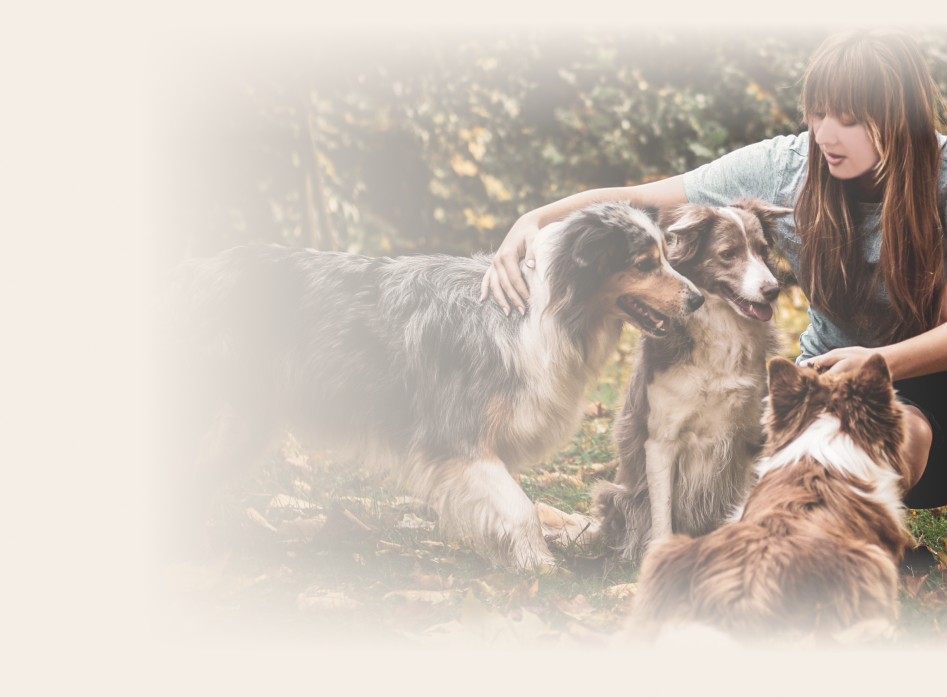
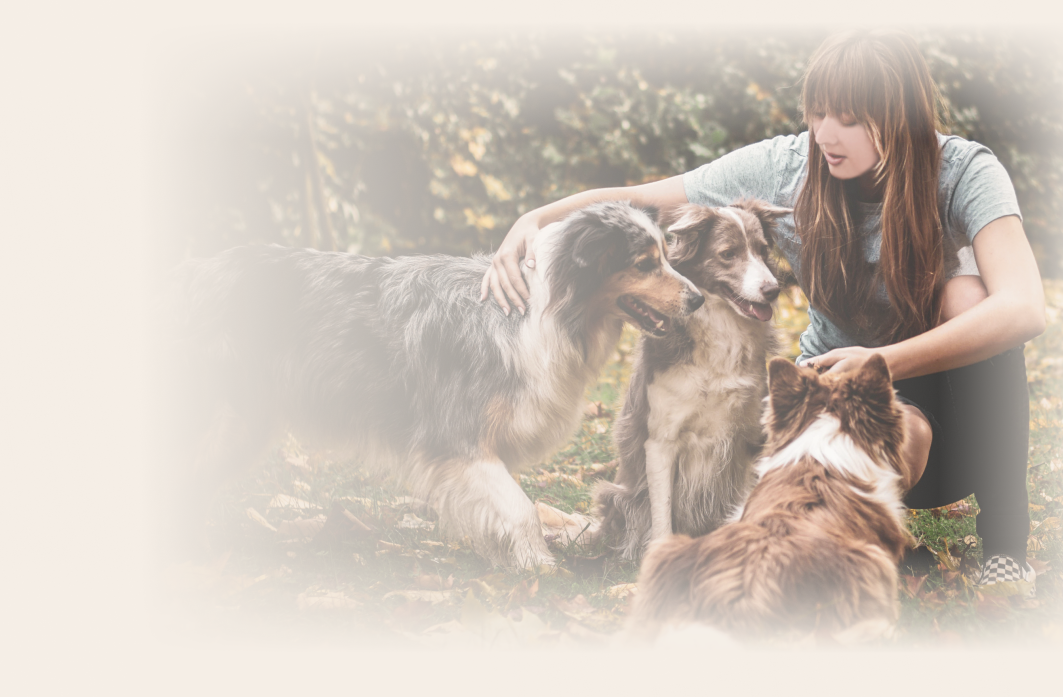
Сделал правки по первому блоку на главной.

diff --git a/themes/zoomir/resources/sass/components/header.scss b/themes/zoomir/resources/sass/components/header.scss
@@ -21,29 +21,42 @@
 
     &__menu {
 
-        flex-grow: 1;
         display: flex;
-        justify-content: space-between;
-        margin: 0 90px;
+        justify-content: flex-start;
+        margin: 0 auto;
 
         &-item {
 
-            margin-right: 20px;
+            margin-right: 50px;
             color: #363636;
             text-decoration: none;
             padding-bottom: 8px;
+            position: relative;
 
             &:last-child {
 
                 margin-right: 0;
             }
 
-            &:hover {
+            &::before {
 
+                content: '';
+                position: absolute;
+                width: 88px;
+                height: 12px;
+                bottom: -2px;
+                left: 50%;
+                margin-left: -44px;
                 background-image: url('../resources/imgs/header-menu-line.svg');
                 background-repeat: no-repeat;
-                background-position: center bottom;
+                background-position: 0 0;
                 background-size: 100% auto;
+                display: none;
+            }
+
+            &:hover::before {
+
+                display: block;
             }
         }
     }
@@ -78,7 +91,10 @@
 
         &__menu {
 
-            margin: 0 40px;
+            &-item {
+
+                margin-right: 20px;
+            }
         }
     }
 }

diff --git a/themes/zoomir/resources/sass/components/main-block.scss b/themes/zoomir/resources/sass/components/main-block.scss
@@ -1,16 +1,15 @@
 .main-block {
 
     position: relative;
-    padding-top: 150px;
-    padding-bottom: 120px;
     padding-left: 20px;
     max-width: calc(50% + 600px);
+    height: 100vh;
     margin-left: auto;
     background-image: url('../resources/imgs/main-block-img.png');
     background-repeat: no-repeat;
-    background-position: right top;
-    background-size: auto 100%;
-    max-height: 427px;
+    background-position: right center;
+    display: flex;
+    align-items: center;
 
     &__title {
 
@@ -70,6 +69,7 @@
         padding-top: 120px;
         background-size: auto 640px;
         background-position: right bottom;
+        height: auto;
 
         &__title {
 

diff --git a/webpack.mix.js b/webpack.mix.js
@@ -18,7 +18,7 @@ mix.js('themes/zoomir/resources/js/app.js', 'themes/zoomir/js')
       processCssUrls: false,
    })
    .browserSync({
-      proxy: 'www.wp-zoomir.ru',
+      proxy: 'zoomir-wp.ru',
       files: [
          'themes/zoomir/css/{*,**/*}.css',
          'themes/zoomir/js/{*,**/*}.js',

diff --git a/themes/zoomir/resources/sass/components/btn.scss b/themes/zoomir/resources/sass/components/btn.scss
@@ -4,7 +4,7 @@
     border: 1px solid #363636;
     box-shadow: 0px 3px 20px rgba(48, 48, 48, 0.1);
     border-radius: 50px;
-    padding: 20px 40px;
+    padding: 40px 44px;
     background-color: transparent;
     cursor: pointer;
     color: #363636;

diff --git a/themes/zoomir/resources/sass/app.scss b/themes/zoomir/resources/sass/app.scss
@@ -50,6 +50,12 @@ html.mobile-menu_open, body.mobile-menu_open {
     text-transform: uppercase;
 }
 
+.page-wrapper {
+
+    max-width: 1640px;
+    margin: 0 auto;
+}
+
 @media screen and (max-width:780px) {
 
     .page-title {

diff --git a/themes/zoomir/resources/sass/components/akcii.scss b/themes/zoomir/resources/sass/components/akcii.scss
@@ -1,7 +1,6 @@
 .akcii {
 
     margin-left: auto;
-    margin-top: 100px;
 
     &__title {
 

diff --git a/themes/zoomir/header.php b/themes/zoomir/header.php
@@ -8,47 +8,48 @@
         <?php wp_head(); ?>
     </head>
     <body>
-        <header class="header">
-            <div class="header__logo">
-                <a href="/"><img src="<?php echo get_template_directory_uri(); ?>/resources/imgs/header-logo.png"></a>
-            </div>
-            <div class="header__menu">
-                <a href="/catalog" class="header__menu-item">Каталог</a>
-                <a href="/akcii" class="header__menu-item">Акции</a>
-                <a href="/shop-categories/majkop" class="header__menu-item">Магазины</a>
-                <a href="/dostavka" class="header__menu-item">Доставка</a>
-                <a href="/vakansii" class="header__menu-item">Вакансии</a>
-                <a href="/kompaniya" class="header__menu-item">Компания</a>
-            </div>
-            <div class="header__phone">8 800 200 54 24</div>
-            <div class="header__mobile-menu-btn">
-                <div class="header__mobile-menu-btn-line"></div>
-                <div class="header__mobile-menu-btn-line"></div>
-                <div class="header__mobile-menu-btn-line"></div>
-            </div>
-        </header>
+        <div class="page-wrapper">
+            <header class="header">
+                <div class="header__logo">
+                    <a href="/"><img src="<?php echo get_template_directory_uri(); ?>/resources/imgs/header-logo.png"></a>
+                </div>
+                <div class="header__menu">
+                    <a href="/catalog" class="header__menu-item">Каталог</a>
+                    <a href="/akcii" class="header__menu-item">Акции</a>
+                    <a href="/shop-categories/majkop" class="header__menu-item">Магазины</a>
+                    <a href="/dostavka" class="header__menu-item">Доставка</a>
+                    <a href="/vakansii" class="header__menu-item">Вакансии</a>
+                    <a href="/kompaniya" class="header__menu-item">Компания</a>
+                </div>
+                <div class="header__phone">8 800 200 54 24</div>
+                <div class="header__mobile-menu-btn">
+                    <div class="header__mobile-menu-btn-line"></div>
+                    <div class="header__mobile-menu-btn-line"></div>
+                    <div class="header__mobile-menu-btn-line"></div>
+                </div>
+            </header>
 
-        <div class="mobile-menu">
-            <div class="mobile-menu__cover"></div>
-            <div class="mobile-menu__wrapper">
-                <div class="mobile-menu__content">
-                    <div class="mobile-menu__title">
-                        Зоомир
-                        <div class="mobile-menu__close"></div>
-                    </div>
-                    <div class="mobile-menu__items">
-                        <a href="/catalog" class="mobile-menu__item">Каталог</a>
-                        <a href="/akcii" class="mobile-menu__item">Акции</a>
-                        <a href="/shop-categories/majkop" class="mobile-menu__item">Магазины</a>
-                        <a href="/dostavka" class="mobile-menu__item">Доставка</a>
-                        <a href="/vakansii" class="mobile-menu__item">Вакансии</a>
-                        <a href="/kompaniya" class="mobile-menu__item">Компания</a>
-                    </div>
-                    <div class="mobile-menu__social">
-                        <a href="#" class="mobile-menu__social-inst"></a>
-                        <a href="#" class="mobile-menu__social-vk"></a>
-                        <a href="#" class="mobile-menu__social-fb"></a>
+            <div class="mobile-menu">
+                <div class="mobile-menu__cover"></div>
+                <div class="mobile-menu__wrapper">
+                    <div class="mobile-menu__content">
+                        <div class="mobile-menu__title">
+                            Зоомир
+                            <div class="mobile-menu__close"></div>
+                        </div>
+                        <div class="mobile-menu__items">
+                            <a href="/catalog" class="mobile-menu__item">Каталог</a>
+                            <a href="/akcii" class="mobile-menu__item">Акции</a>
+                            <a href="/shop-categories/majkop" class="mobile-menu__item">Магазины</a>
+                            <a href="/dostavka" class="mobile-menu__item">Доставка</a>
+                            <a href="/vakansii" class="mobile-menu__item">Вакансии</a>
+                            <a href="/kompaniya" class="mobile-menu__item">Компания</a>
+                        </div>
+                        <div class="mobile-menu__social">
+                            <a href="#" class="mobile-menu__social-inst"></a>
+                            <a href="#" class="mobile-menu__social-vk"></a>
+                            <a href="#" class="mobile-menu__social-fb"></a>
+                        </div>
                     </div>
                 </div>
             </div>
-        </div>

diff --git a/themes/zoomir/footer.php b/themes/zoomir/footer.php
@@ -1,26 +1,27 @@
-        <footer class="footer">
-            <a href="/"class="footer__logo"><img src="<?php echo get_template_directory_uri(); ?>/resources/imgs/header-logo.png"></a>
-            <div class="footer__text1">
-                <a href="/catalog">Каталог</a>
-                <a href="/shop-categories/majkop">Магазины</a>
-                <a href="/vakansii">Вакансии</a>
-                <a href="/kompaniya">Компания</a>
-            </div>
-            <div class="footer__text2">
-                <a href="/dostavka">Доставка</a>
-                <a href="#">Скидки</a>
-                <a href="/akcii">Акции</a>
-            </div>
-            <div class="footer__contacts">
-                <div class="footer__contacts-email">@mail</div>
-                <div class="footer__contacts-phone">8 800 200 54 34</div>
-            </div>
-            <div class="footer__social">
-                <a href="#" class="footer__social-inst"></a>
-                <a href="#" class="footer__social-vk"></a>
-                <a href="#" class="footer__social-fb"></a>
-            </div>
-        </footer>
+            <footer class="footer">
+                <a href="/"class="footer__logo"><img src="<?php echo get_template_directory_uri(); ?>/resources/imgs/header-logo.png"></a>
+                <div class="footer__text1">
+                    <a href="/catalog">Каталог</a>
+                    <a href="/shop-categories/majkop">Магазины</a>
+                    <a href="/vakansii">Вакансии</a>
+                    <a href="/kompaniya">Компания</a>
+                </div>
+                <div class="footer__text2">
+                    <a href="/dostavka">Доставка</a>
+                    <a href="#">Скидки</a>
+                    <a href="/akcii">Акции</a>
+                </div>
+                <div class="footer__contacts">
+                    <div class="footer__contacts-email">@mail</div>
+                    <div class="footer__contacts-phone">8 800 200 54 34</div>
+                </div>
+                <div class="footer__social">
+                    <a href="#" class="footer__social-inst"></a>
+                    <a href="#" class="footer__social-vk"></a>
+                    <a href="#" class="footer__social-fb"></a>
+                </div>
+            </footer>
+        </div>
 
         <?php wp_footer(); ?>
         <script>
